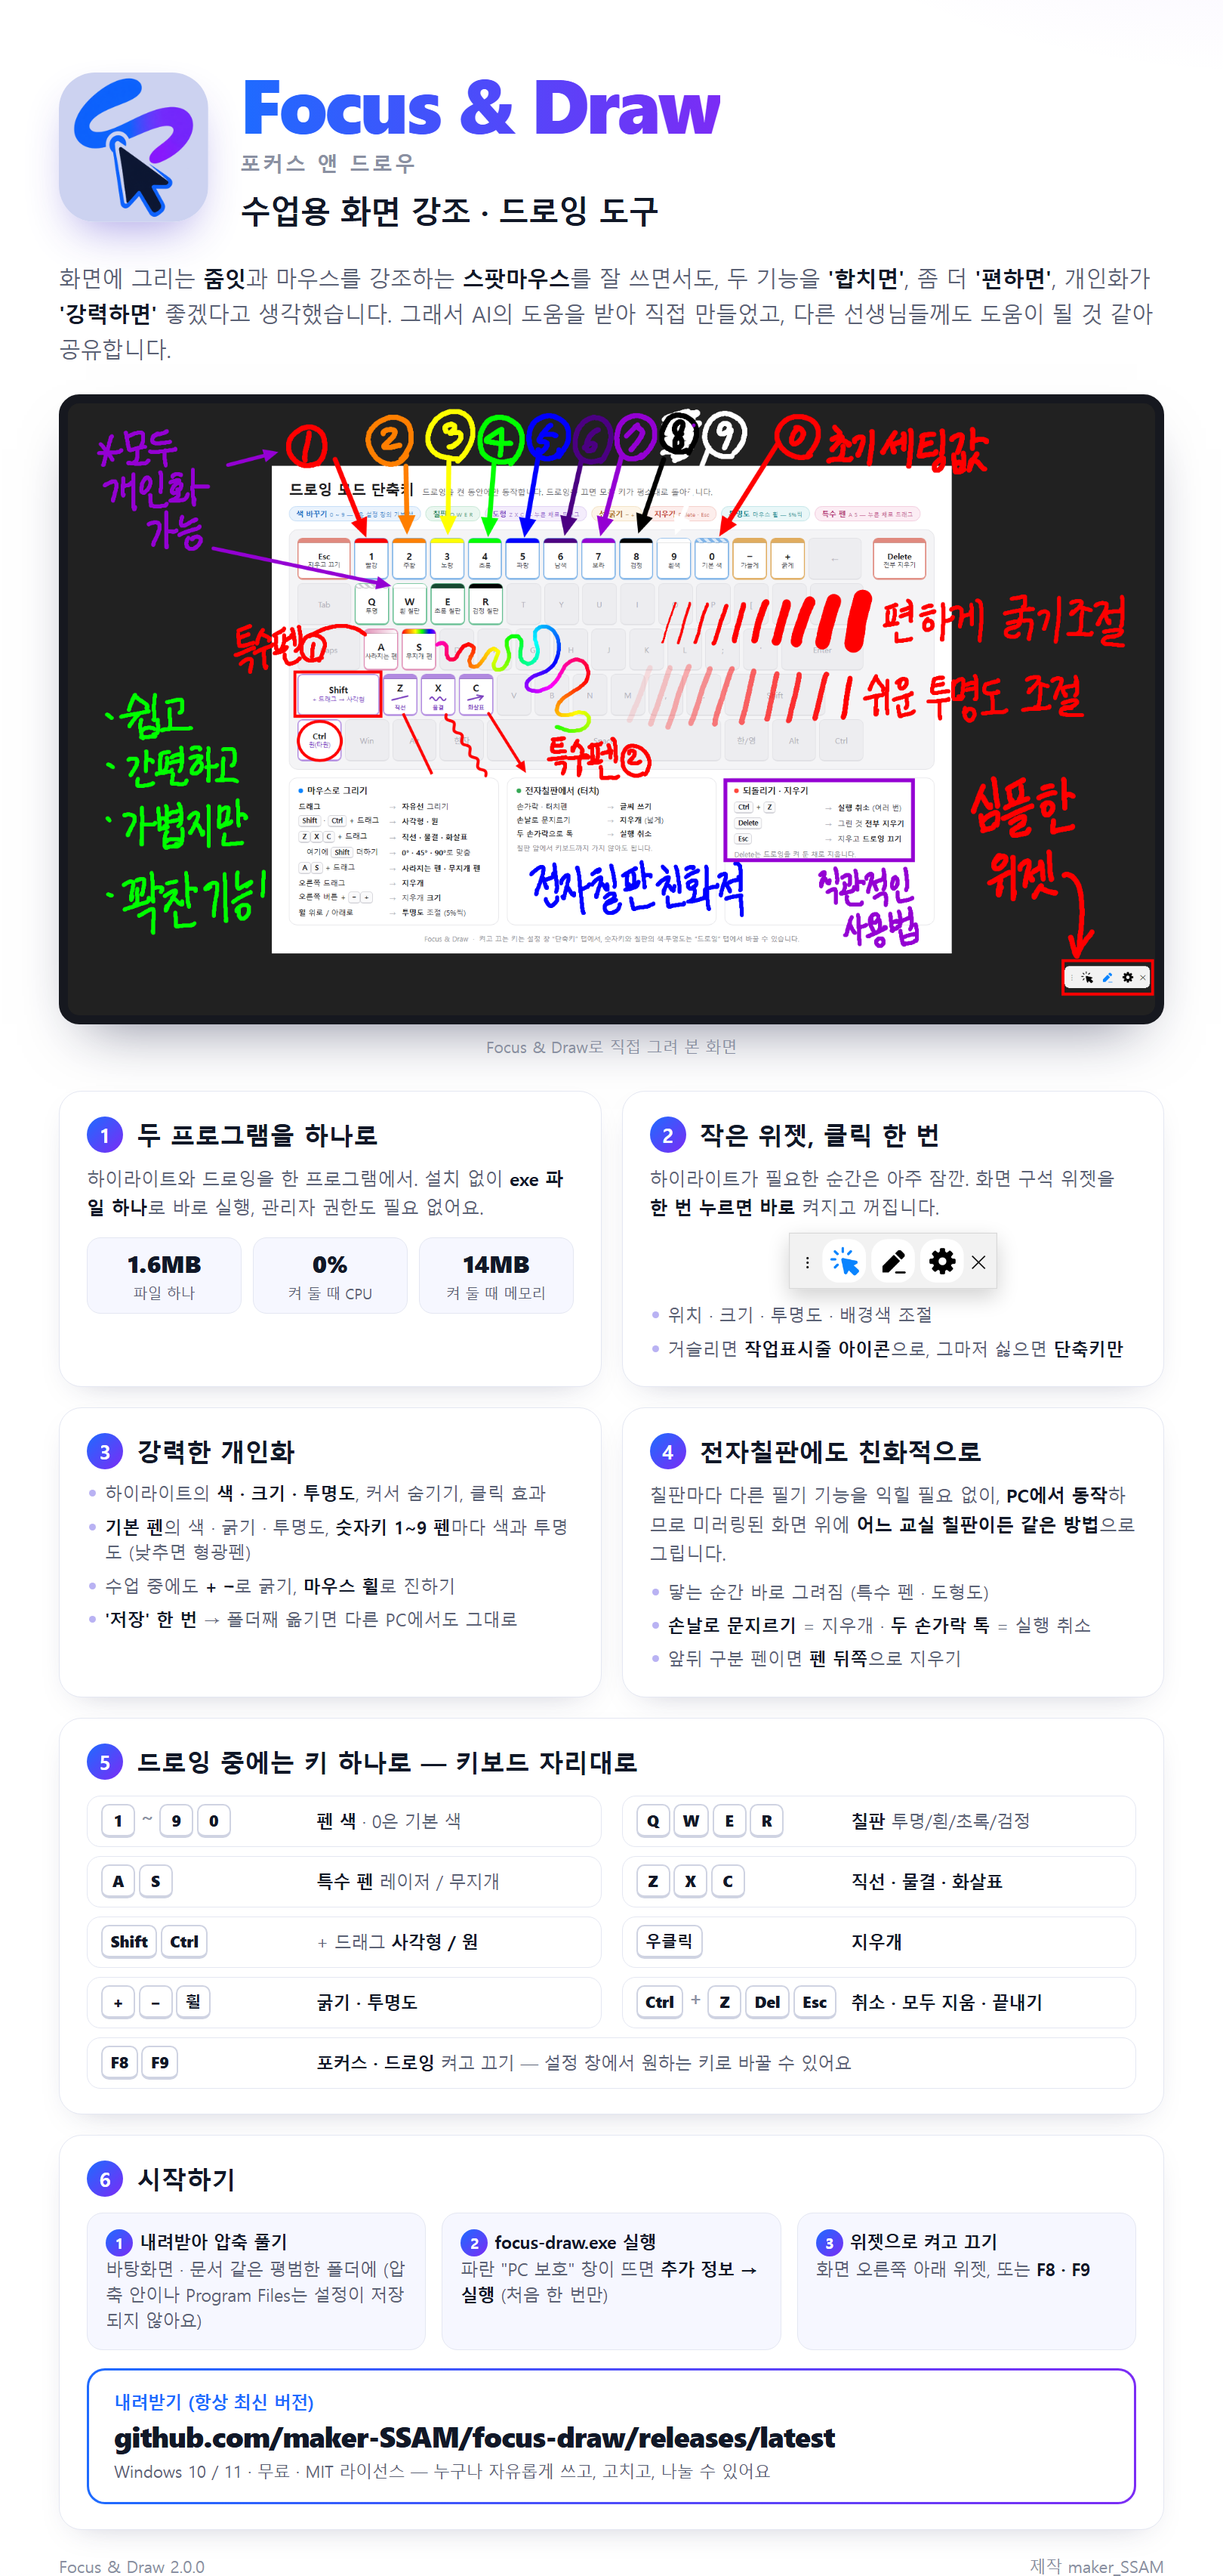
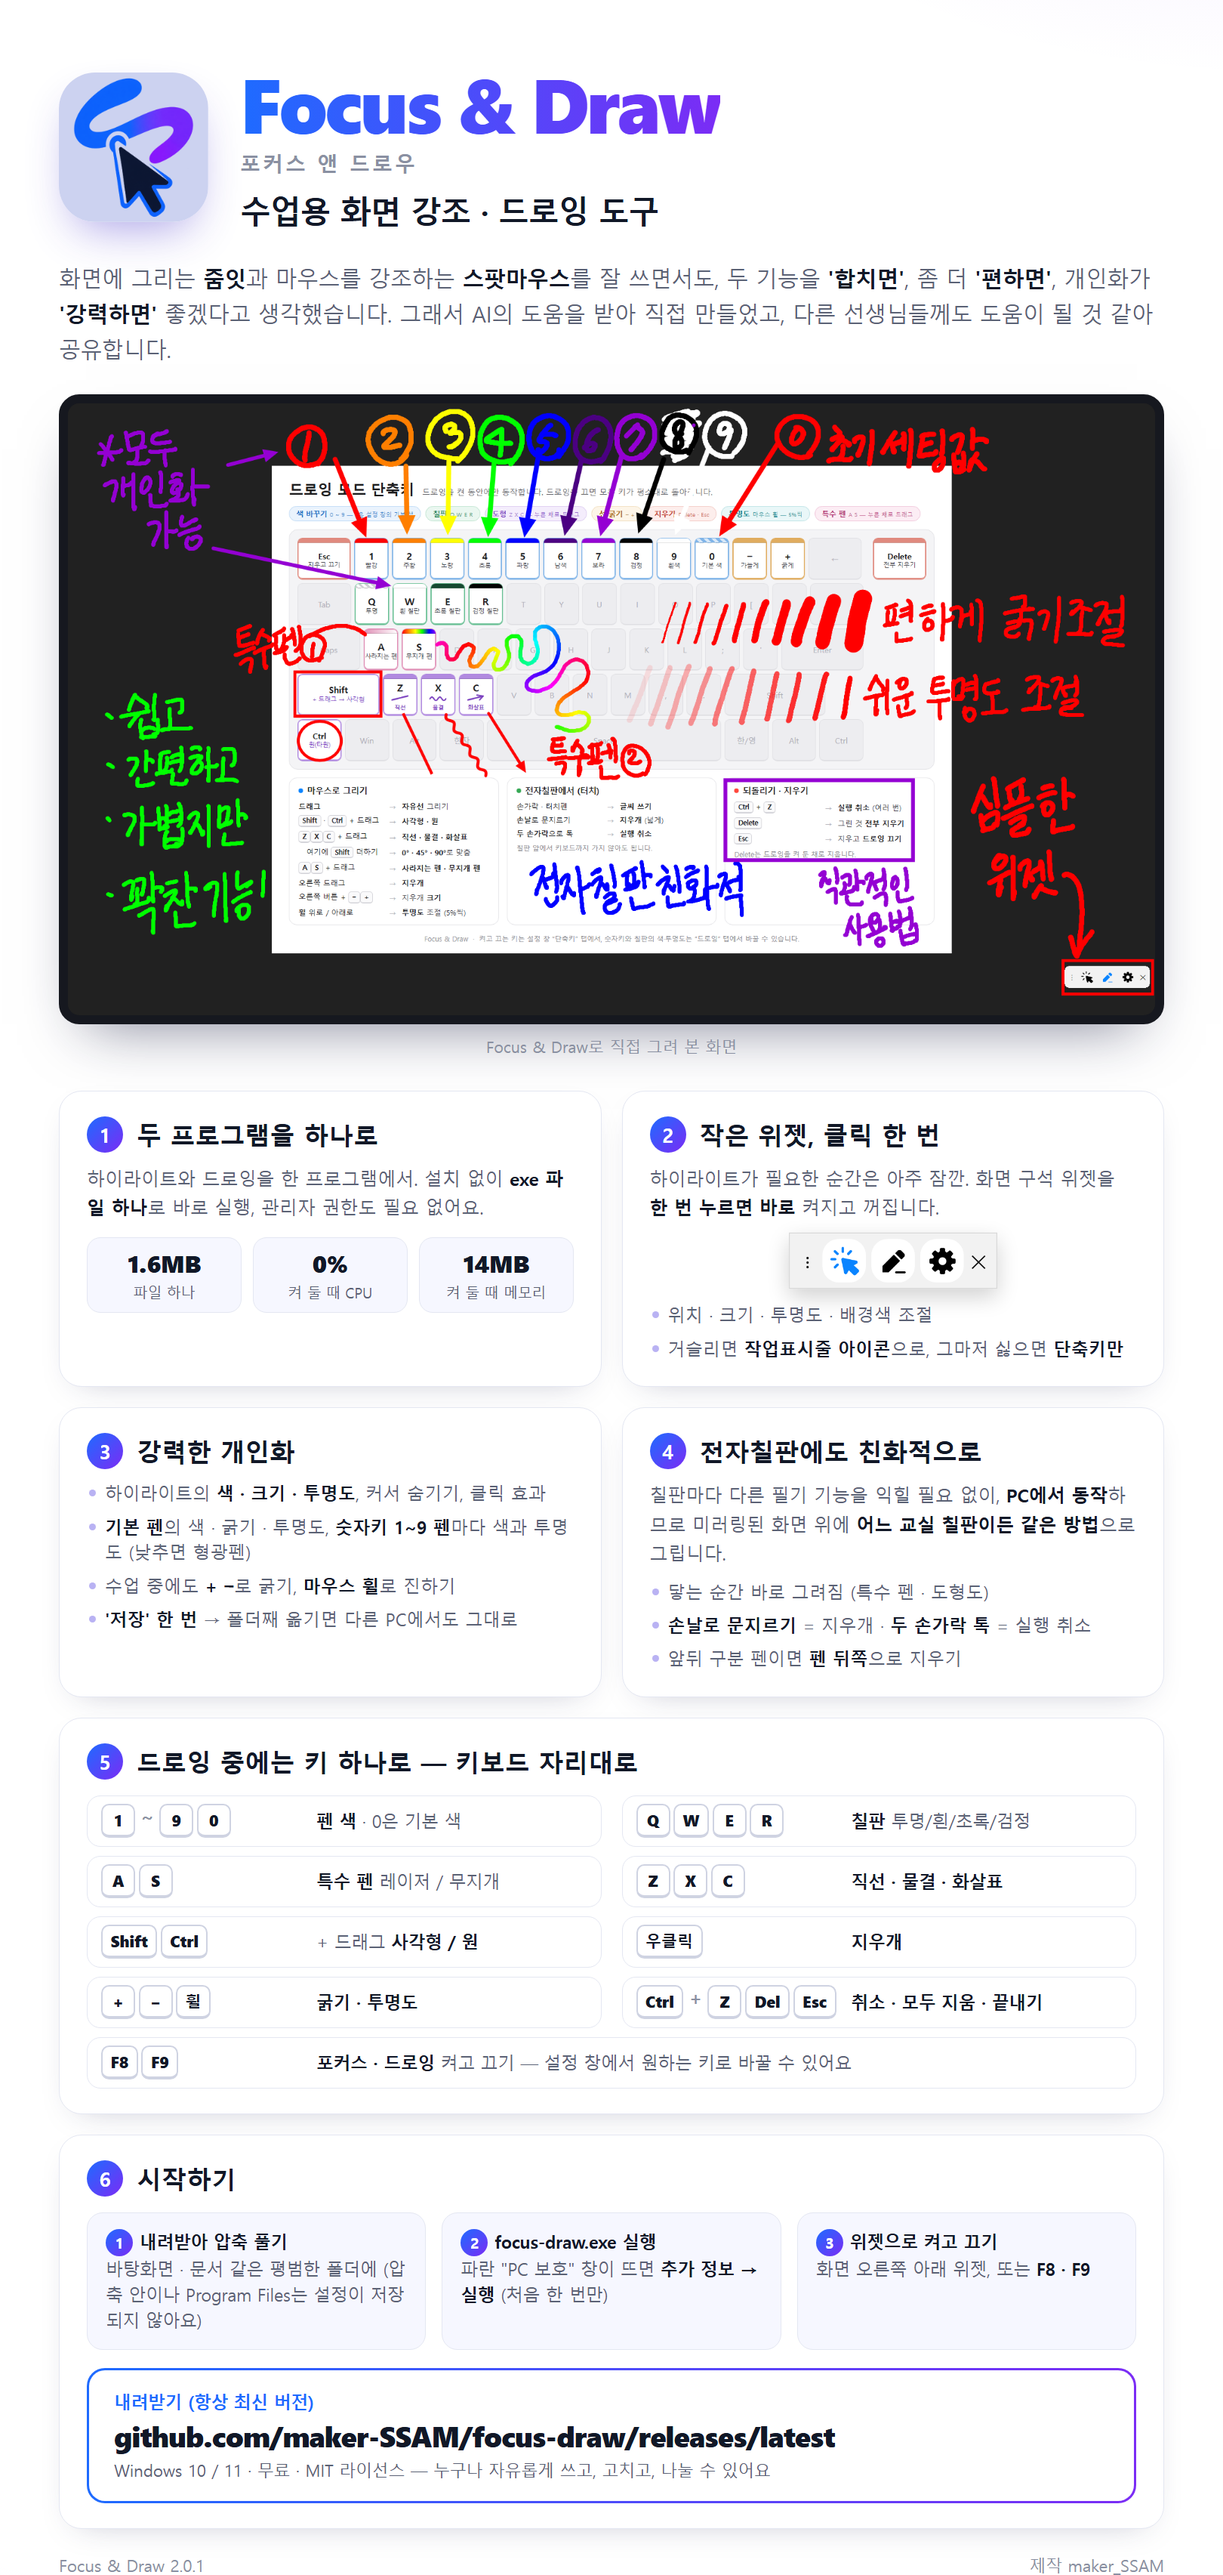
Raise the Windows app to 2.0.1 and add the release notes

diff --git a/windows/소개자료/slides.html b/windows/소개자료/slides.html
@@ -310,7 +310,7 @@
       <div class="capnote">Focus &amp; Draw로 직접 그려 본 화면</div>
     </div>
   </div>
-  <div class="foot"><span>무료 · MIT 라이선스 · 누구나 자유롭게 쓰고, 고치고, 나눠 주셔도 됩니다</span><span>제작 maker_SSAM · 버전 2.0.0</span></div>
+  <div class="foot"><span>무료 · MIT 라이선스 · 누구나 자유롭게 쓰고, 고치고, 나눠 주셔도 됩니다</span><span>제작 maker_SSAM · 버전 2.0.1</span></div>
 </section>
 
 <!-- ======================= 2. 왜 만들었나 ======================= -->
@@ -732,7 +732,7 @@
     </div>
   </div>
 
-  <div class="ft"><span>Focus &amp; Draw 2.0.0</span><span>제작 maker_SSAM</span></div>
+  <div class="ft"><span>Focus &amp; Draw 2.0.1</span><span>제작 maker_SSAM</span></div>
 </section>
 <script>
   var h = (location.hash || '#1').slice(1);

diff --git a/docs/release-notes-2.0.1.md b/docs/release-notes-2.0.1.md
@@ -1,0 +1,16 @@
+## Focus & Draw 2.0.1 — Windows 오류 수정
+
+### 고친 것
+- (Windows) 브라우저(Edge·크롬·파이어폭스·웨일)가 앞에 있을 때 `F9`를 누르면 `Nonexistent hotkey variant (HotIf)` 오류 창이 뜨고 드로잉이 꺼지지 않던 것. 2.0.0에서 생긴 문제입니다
+
+맥 판은 달라진 기능이 없고, 두 판의 번호를 맞추느라 2.0.1이 되었습니다.
+
+### 내려받기
+- **Windows 10 / 11** → `Focus-Draw-2.0.1.zip` — 압축을 풀고 `focus-draw.exe` 실행
+- **맥 (macOS 15 이상)** → `Focus-Draw-2.0.1-mac.zip` — 압축을 풀고 앱을 "응용 프로그램" 폴더로 옮긴 뒤 실행. 처음 한 번은 **시스템 설정 › 개인정보 보호 및 보안 › "그래도 열기"**가 필요합니다(Apple 서명이 없는 개인 제작 앱)
+
+### 2.0.0을 쓰고 계셨다면
+- Windows: 프로그램을 끄고 예전 폴더의 `focus-draw.exe`만 바꿔 넣으면 `settings.ini`(색·크기·단축키)가 그대로 이어집니다
+- 맥: 맥 판은 오류와 관계없어 꼭 바꾸지 않으셔도 됩니다
+
+제작 maker_SSAM · MIT 라이선스
